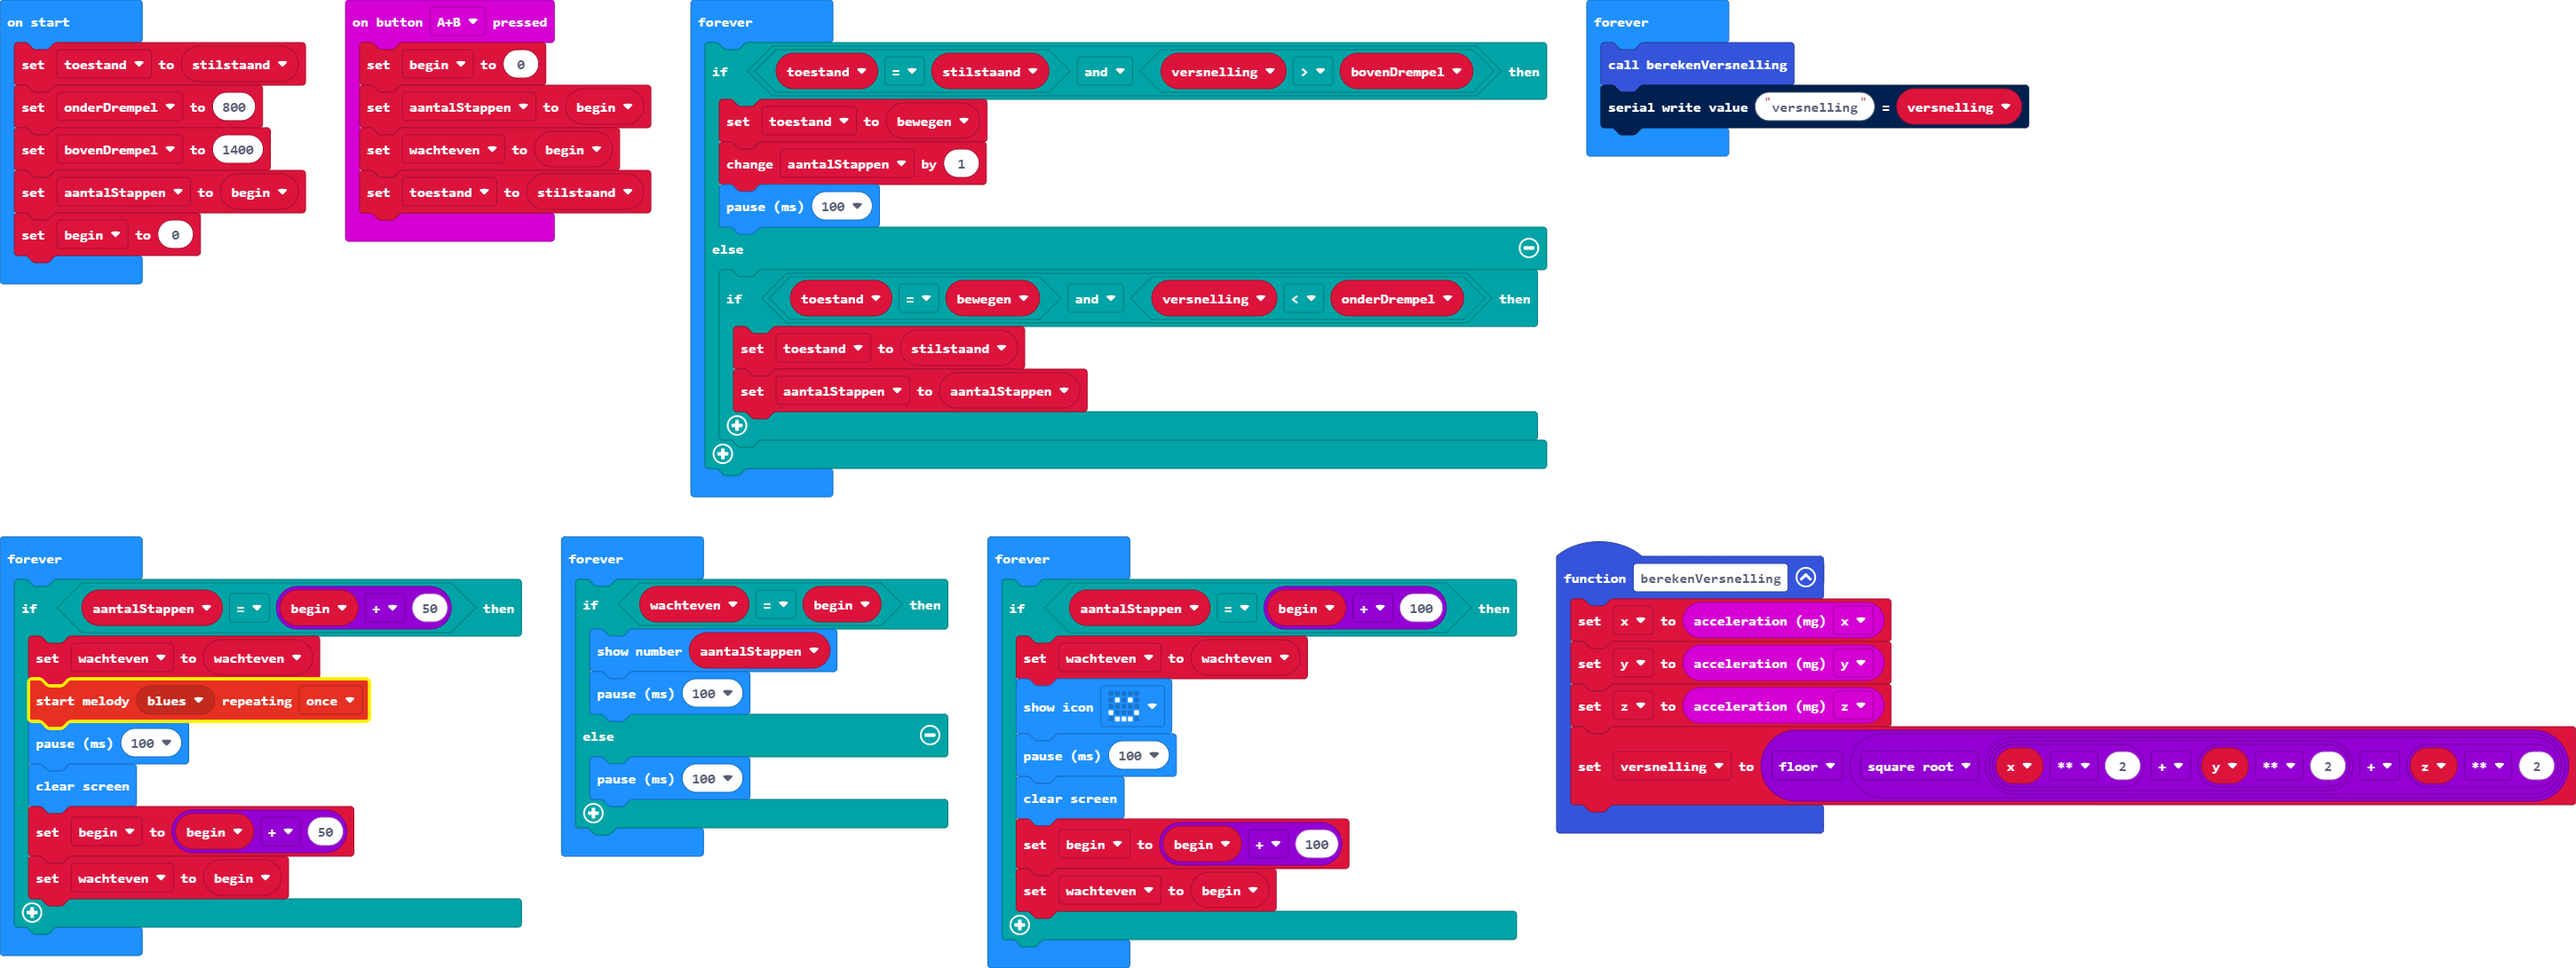
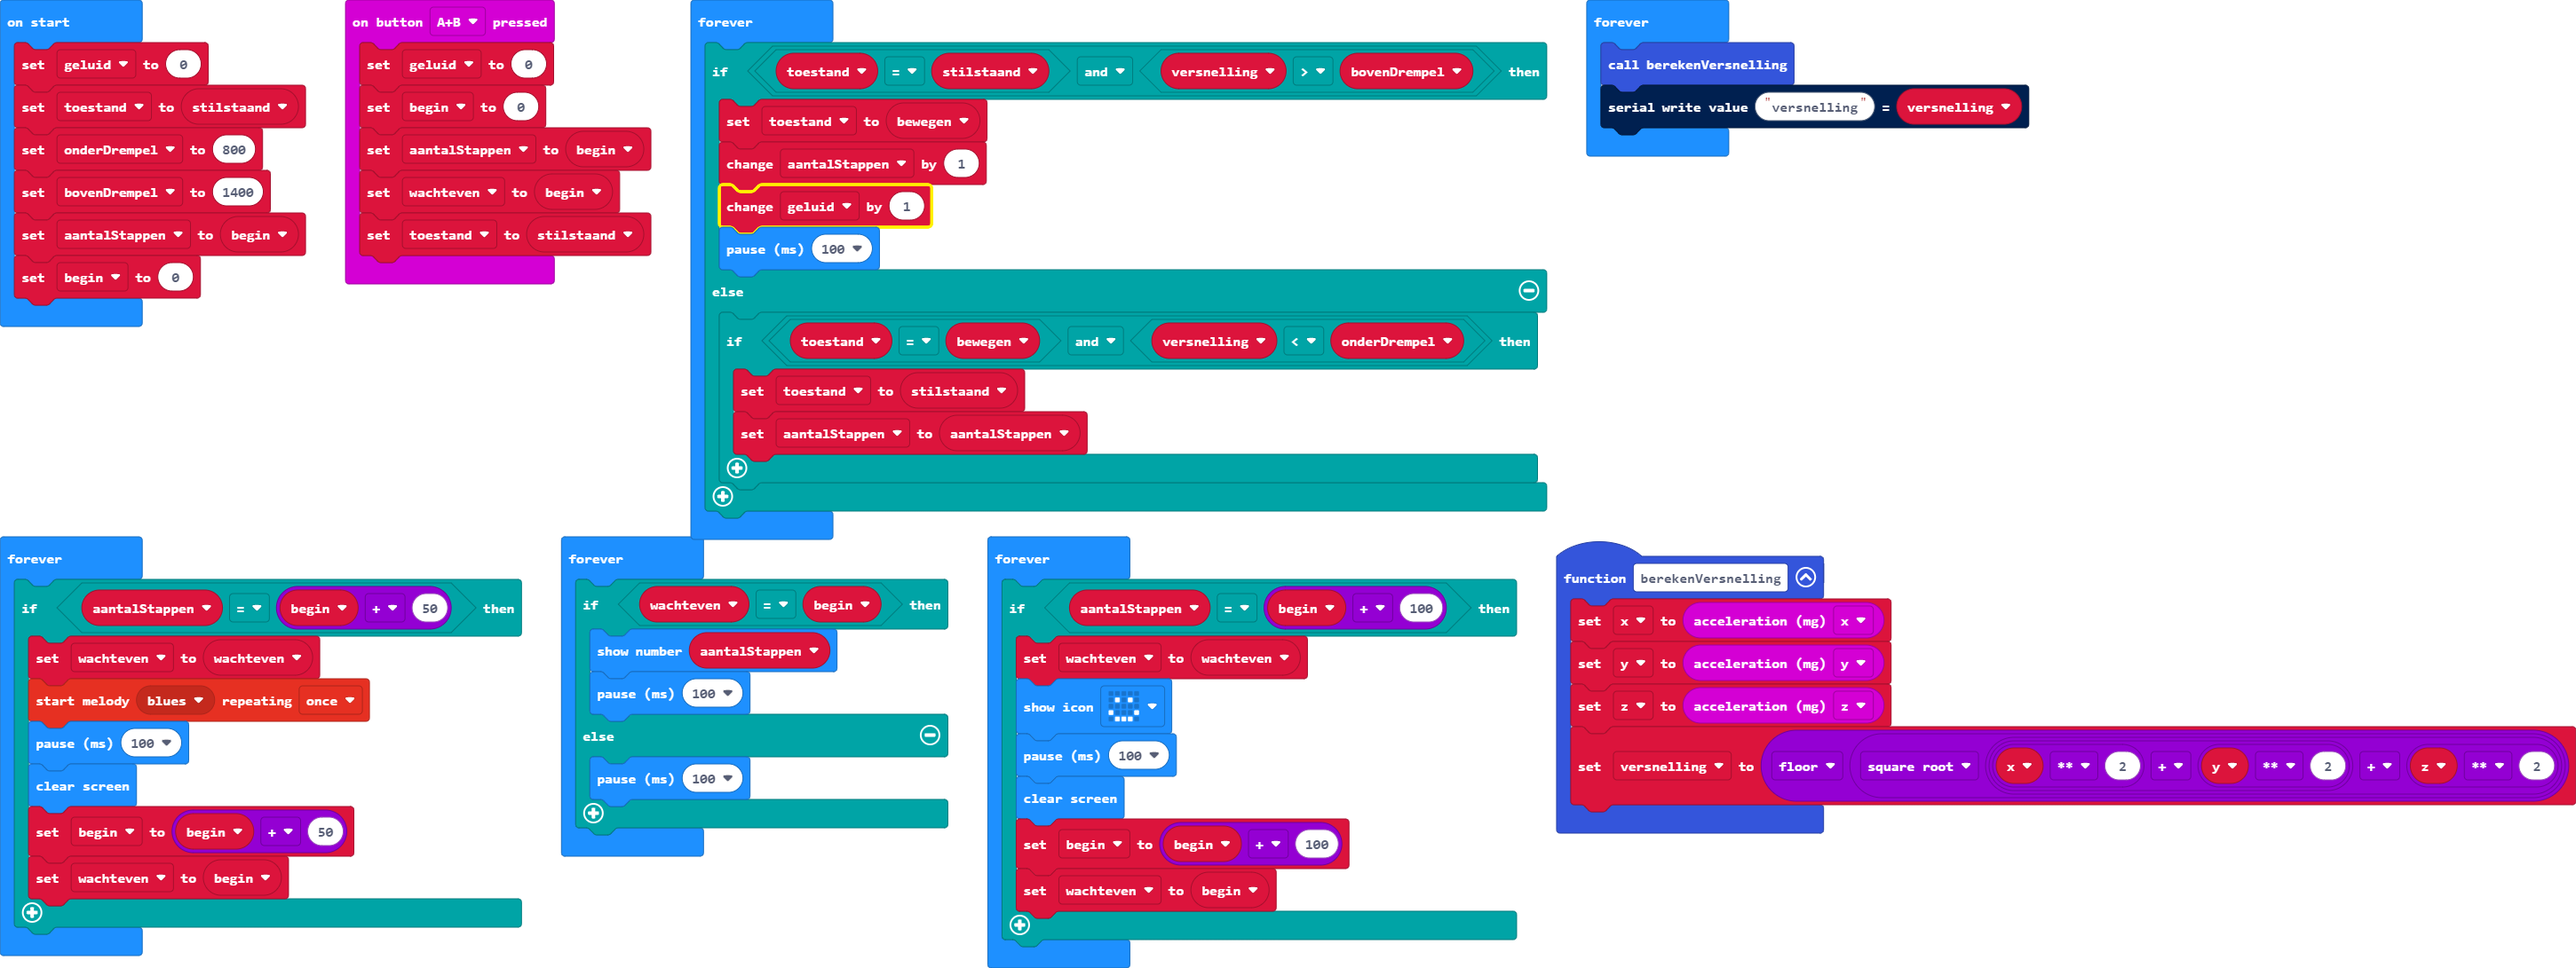
Update main.blocks, main.ts

Changed region(s): [[0.0, 0.0312, 0.6205, 0.561], [0.031, 0.6856, 0.1551, 0.7479]]

diff --git a/main.ts b/main.ts
@@ -5,6 +5,7 @@ function berekenVersnelling () {
     versnelling = Math.floor(Math.sqrt(x ** 2 + y ** 2 + z ** 2))
 }
 input.onButtonPressed(Button.AB, function () {
+    geluid = 0
     begin = 0
     aantalStappen = begin
     wachteven = begin
@@ -19,6 +20,8 @@ let begin = 0
 let aantalStappen = 0
 let stilstaand = 0
 let toestand = 0
+let geluid = 0
+geluid = 0
 toestand = stilstaand
 let onderDrempel = 800
 let bovenDrempel = 1400
@@ -29,6 +32,7 @@ basic.forever(function () {
     if (toestand == stilstaand && versnelling > bovenDrempel) {
         toestand = bewegen
         aantalStappen += 1
+        geluid += 1
         basic.pause(100)
     } else {
         if (toestand == bewegen && versnelling < onderDrempel) {
